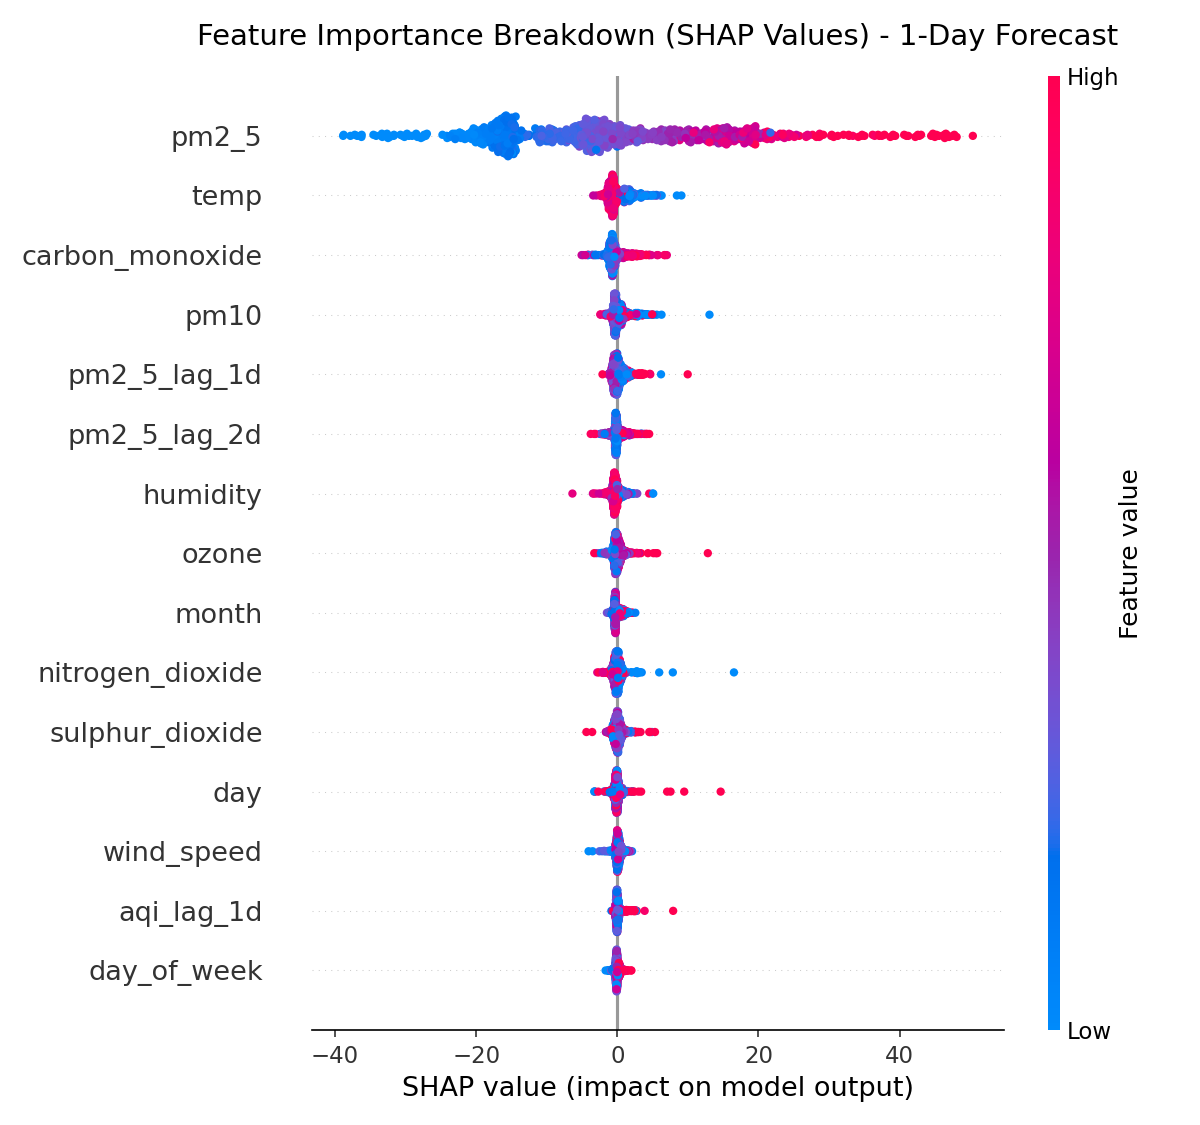
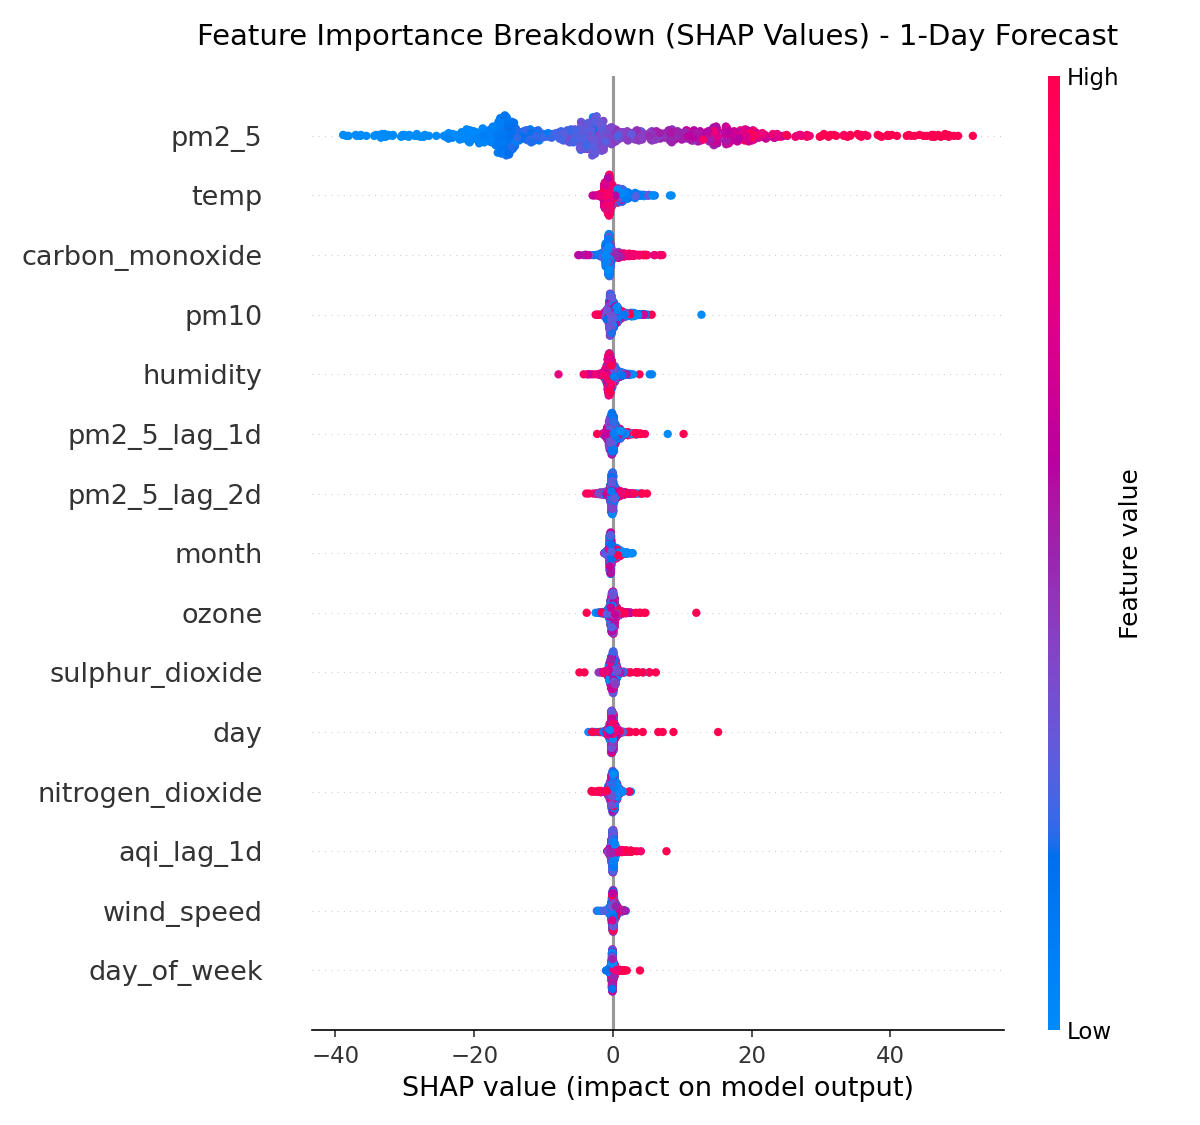
hopswork fix

diff --git a/aqi_training_pipeline.py b/aqi_training_pipeline.py
@@ -2,6 +2,16 @@ import pandas as pd
 import numpy as np
 import pickle
 import os
+
+# Load env variables for Hopsworks integration
+if os.path.exists(".env"):
+    with open(".env", "r") as f:
+        for line in f:
+            if "=" in line:
+                k, v = line.strip().split("=", 1)
+                if v.startswith('"') or v.startswith("'"):
+                    v = v[1:-1]
+                os.environ[k] = v
 from sklearn.ensemble import RandomForestRegressor
 from sklearn.metrics import mean_absolute_error, mean_squared_error, r2_score
 import matplotlib.pyplot as plt

diff --git a/aqi_historical_backfill.py b/aqi_historical_backfill.py
@@ -148,6 +148,15 @@ def fetch_data():
 
 def upload_to_hopsworks(df):
     try:
+        import os
+        if os.path.exists(".env"):
+            with open(".env", "r") as f:
+                for line in f:
+                    if "=" in line:
+                        k, v = line.strip().split("=", 1)
+                        if v.startswith('"') or v.startswith("'"):
+                            v = v[1:-1]
+                        os.environ[k] = v
         import hopsworks
         print("\nConnecting to Hopsworks...")
         project = hopsworks.login()